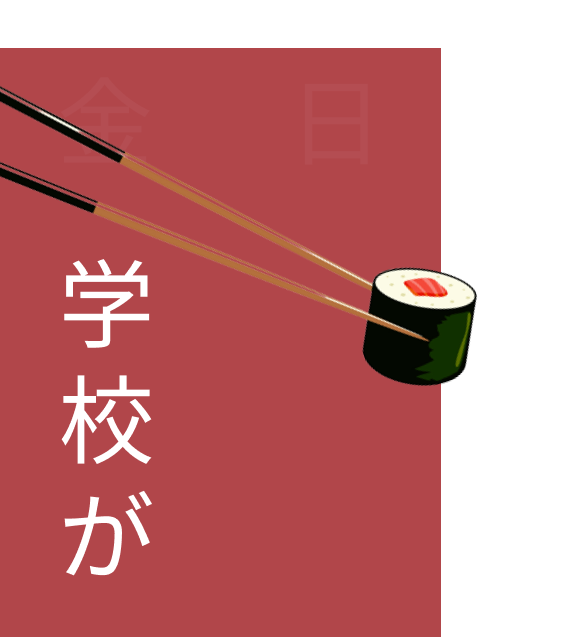
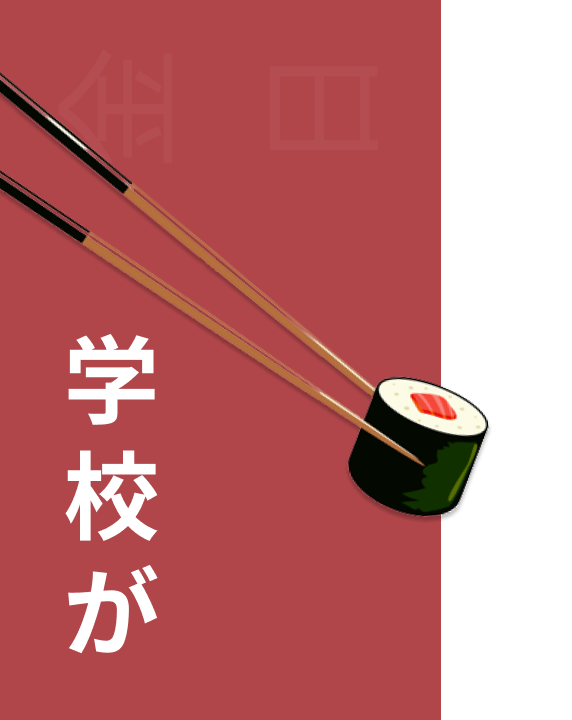
page2ok

Changed region(s): [[0.0, 0.0, 0.8619, 0.9246]]

diff --git a/src/Main/App.css b/src/Main/App.css
@@ -7,6 +7,7 @@
   .App {
     display: flex;
     flex-direction: row;
+    
   }
   .App-NavBar {
     display: none;
@@ -17,45 +18,61 @@
 
   .ContainerLeft {
     width: 35vw;
+    height: 200vh;
     background-color: #b1464a;
     z-index: 999;
+
   }
   .ContainerLeft img {
     width: 125%;
+    height: 94vh;
     z-index: 999;
   }
   .ContainerLeft2 {
+    width: 35vw;
+    height: 100vh;
     background-color: #ffffff;
+
+
   }
   .ContainerLeft2 img {
     width: 100%;
+    height: 50vh;
+    z-index: 999;
   }
   .App-NavBarDesktop {
     color: #ffffff;
     margin-left: 10%;
-    margin-top: 3vh;
+    padding-top: 3vh;
     font-size: x-large;
     font-weight: 600;
   }
   .ContainerRight {
     width: 65vw;
+    height: 100vh;
   }
 
   .App-NavBarDesktop2 {
-    width: 70%;
-    margin-left: 25%;
-    margin-top: 3vh;
+    width: 100%;
     display: flex;
     justify-content: space-around;
+    height: 20vh;
+width: 70%;
+margin-left: 30%;
+
   }
   .App-NavBarDesktop2 a {
     color: #111111;
     font-size: x-large;
     font-weight: 800;
+    padding-top: 5%;
+  }
+
+  .ContainerRight2 {
+    height: 60vh;
   }
 
   .App-H1 {
-    margin: 10% 5% 0% 3%;
     font-size: 3vw;
     margin-left: 7%;
   }
@@ -65,7 +82,7 @@
   }
 
   .App-ContaineurH1Description p {
-    font-size: 1.7vw;
+    font-size: 1.3vw;
     margin-left: 15%;
     margin-top: 3%;
   }
@@ -73,11 +90,11 @@
     display: flex;
     flex-direction: row;
     align-items: center;
-    margin: 5% 0 9.1% 10%;
+    margin: 5% 0 5% 15%;
   }
 
   #btn1 {
-    width: 30%;
+    width: 25%;
     align-items: center;
     background-color: #111111;
     border: 0;
@@ -86,10 +103,10 @@
     color: #e2e2e2;
     cursor: pointer;
     display: inline-flex;
-    font-size: 1.5vw;
+    font-size: 1.3vw;
     justify-content: center;
     overflow: hidden;
-    padding: 3% 0;
+    padding: 2.5% 0;
     text-align: center;
     vertical-align: middle;
     margin-right: 3%;
@@ -107,7 +124,7 @@
   }
 
   #btn2 {
-    width: 30%;
+    width: 25%;
     align-items: center;
     background-color: #ffffff;
     border: 0;
@@ -116,10 +133,10 @@
     color: #111111;
     cursor: pointer;
     display: inline-flex;
-    font-size: 1.5vw;
+    font-size: 1.3vw;
     justify-content: center;
     overflow: hidden;
-    padding: 3% 0;
+    padding: 2.5% 0;
     text-align: center;
     touch-action: manipulation;
     transition: background-color 0.167s cubic-bezier(0.4, 0, 0.2, 1) 0s,
@@ -134,6 +151,7 @@
     display: flex;
     flex-direction: row;
     z-index: 0;
+    height: 20vh;
   }
 
   .App-ContaineurInfoBar2 {
@@ -183,7 +201,7 @@
   }
 
   .App-AboutUsContainer h1 {
-    font-size: 6vh;
+    font-size: 7vh;
     margin-bottom: 5%;
   }
 

diff --git a/src/Main/App.js b/src/Main/App.js
@@ -50,14 +50,12 @@ function App() {
         <>
           <ToastContainer />
           <div className="ContainerLeft">
-            <div className="ContainerLeft1">
               <div className="App-NavBarDesktop">SUSHIMAN</div>
               <img src={fond1}></img>
               <div className="ContainerLeft2">
                 <img src={saumon}></img>
                 <img src={Sushi}></img>
               </div>
-            </div>
           </div>
           <div className="ContainerRight">
             <div className="App-NavBarDesktop2">
@@ -82,6 +80,7 @@ function App() {
                 <img src={menu}></img>
               </div>
             </div>
+            <div  className="ContainerRight2">
             <div className="App-H1">
               <h1>Feel the taste of Japanese foods</h1>
             </div>
@@ -98,6 +97,8 @@ function App() {
               <button id="btn1">Order Now</button>
               <button id="btn2">How to Order</button>
             </div>
+            </div>
+            
 
             <div className="App-ContaineurInfoBar">
               <div className="App-ContaineurInfoBar2">
